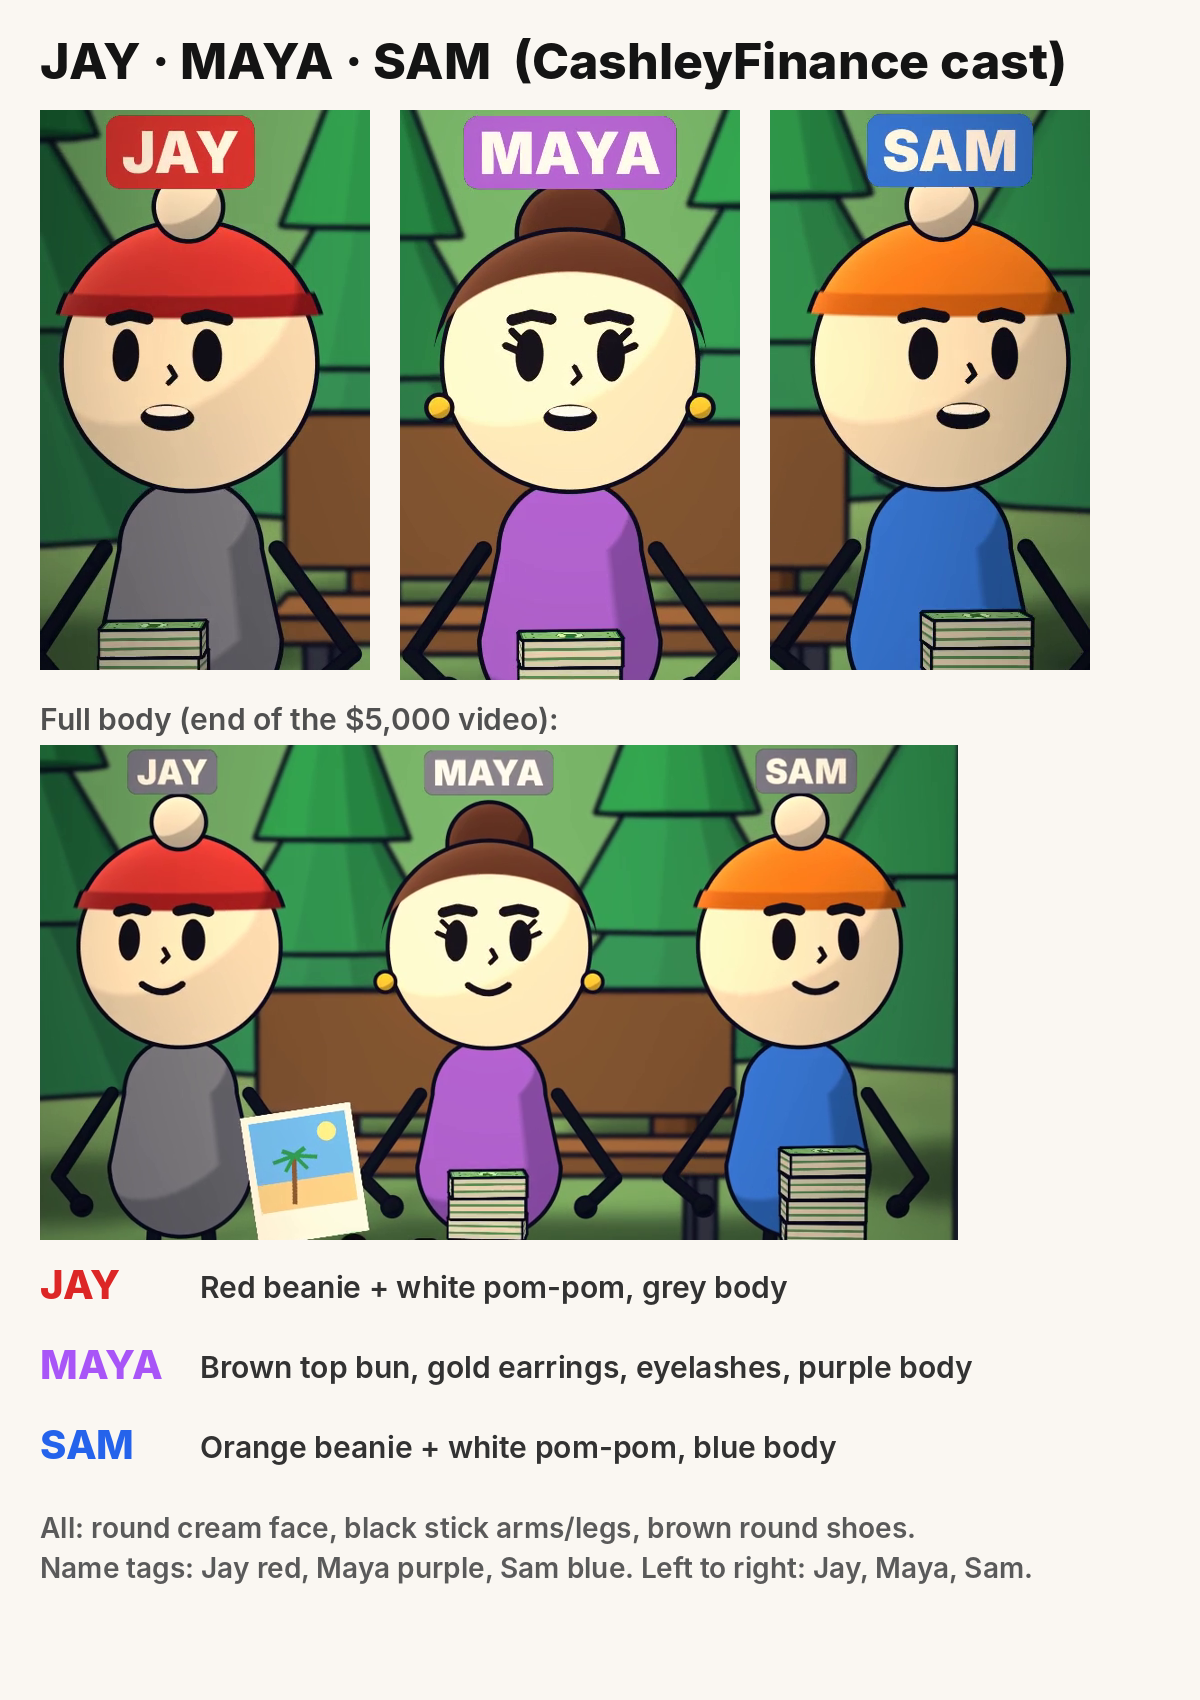
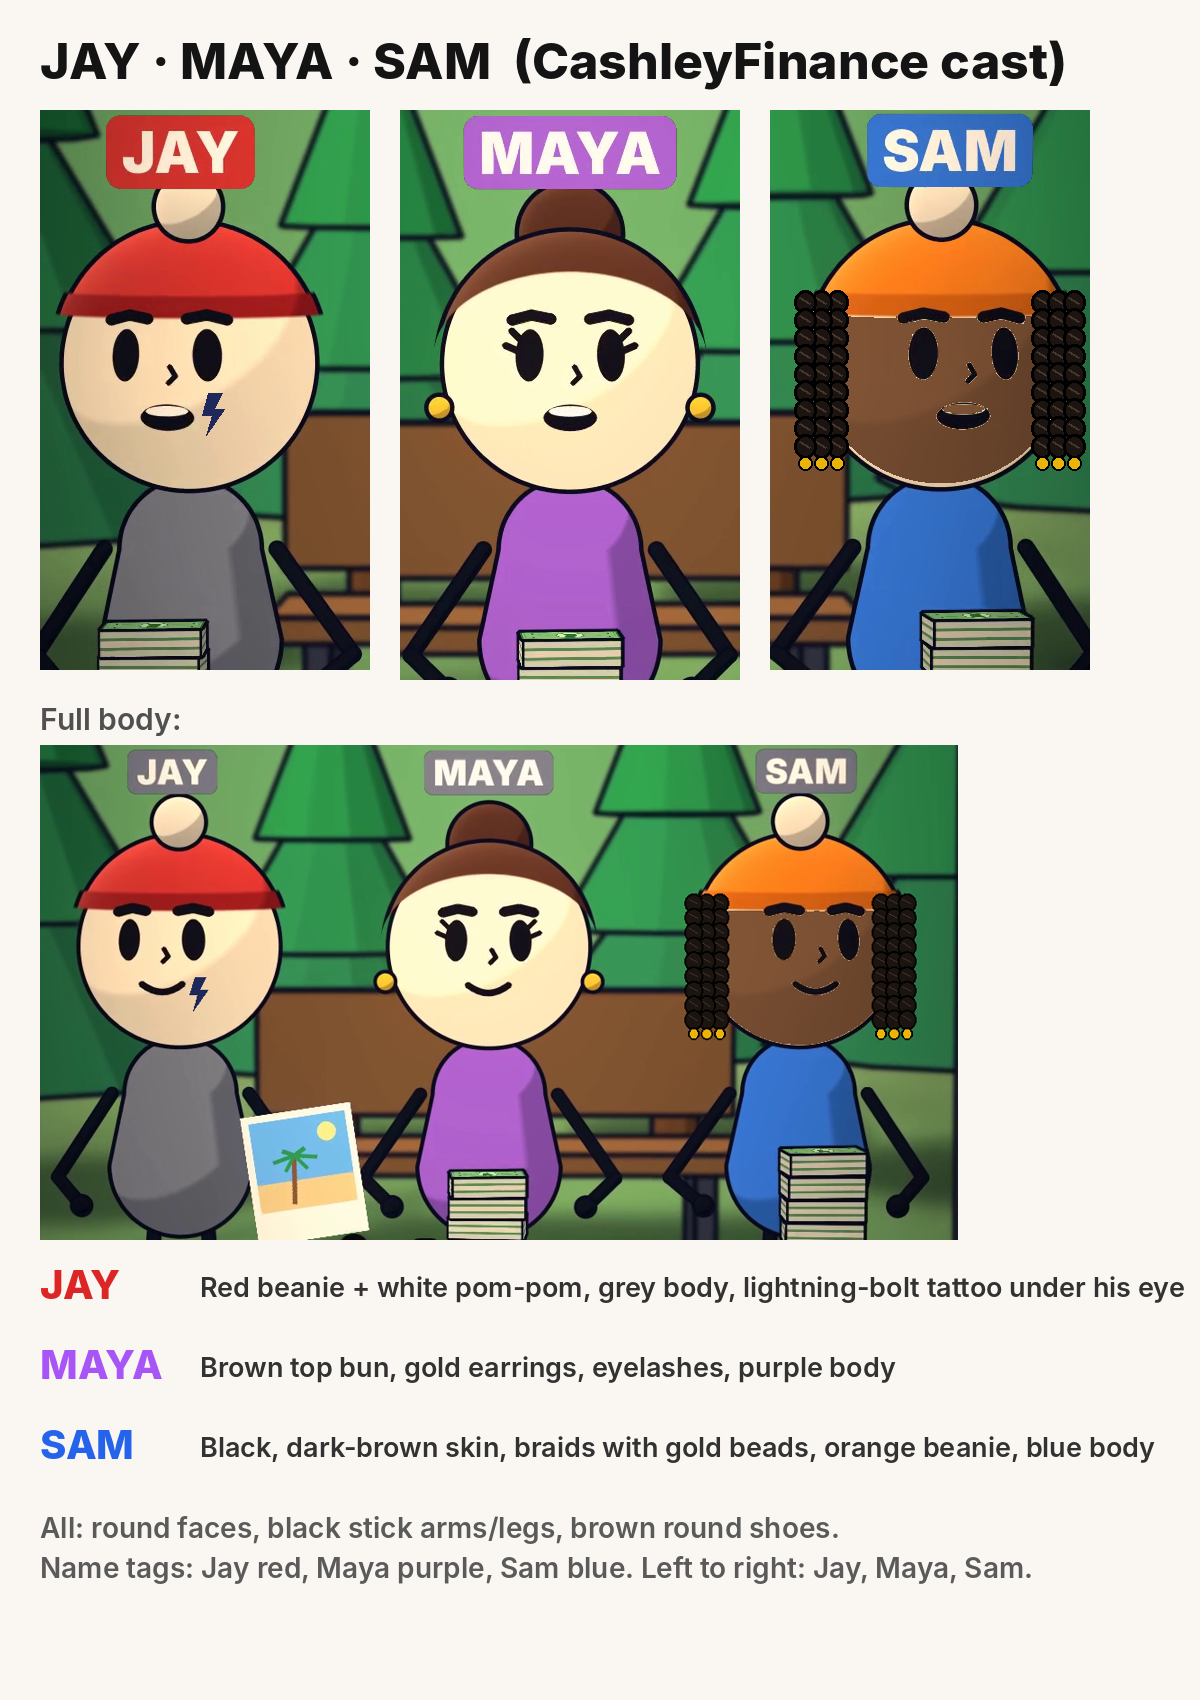
Reference sheet: Sam Black with braids, Jay lightning-bolt tattoo
Claude-Session: https://claude.ai/code/session_01WhC43zAGKoi1hzGoJh1pVt

diff --git a/docs/characters.md b/docs/characters.md
@@ -17,9 +17,9 @@ The viewer's stand-in in every short; scripts talk to "you" and he acts it out.
 
 ## Jay, Maya & Sam: the official recurring cast (creator, Nov 22, 2026)
 Reference sheet: `assets/characters/jay-maya-sam-reference.png` (taken from the posted $5,000 video). Use these designs in every future video.
-- JAY: red beanie with a white pom-pom, grey body. Usually the one who spends or panics.
+- JAY: red beanie with a white pom-pom, grey body, small dark-navy lightning-bolt tattoo under his left eye. Usually the one who spends or panics.
 - MAYA: brown hair in a top bun, gold earrings, eyelashes, purple body. Usually the "safe" one.
-- SAM: Black, warm dark-brown skin, black braids (shoulder length, visible under/around an orange beanie with a white pom-pom), blue body. Usually the long-term investor. (Creator change, Nov 22, 2026: the reference sheet still shows the old cream-faced Sam until the new drawing is made.)
+- SAM: Black, warm dark-brown skin, black braids (shoulder length, visible under/around an orange beanie with a white pom-pom), blue body. Usually the long-term investor. Braids end in small gold beads.
 - All: round faces (Jay and Maya cream, Sam dark brown), black stick arms and legs, brown round shoes, simple 3D-shaded cartoon style.
 - Name tags: Jay red, Maya purple, Sam blue. Always left to right: Jay, Maya, Sam.
 - The older kid sheets and the flat 3D-film sprites below are retired for this cast.
